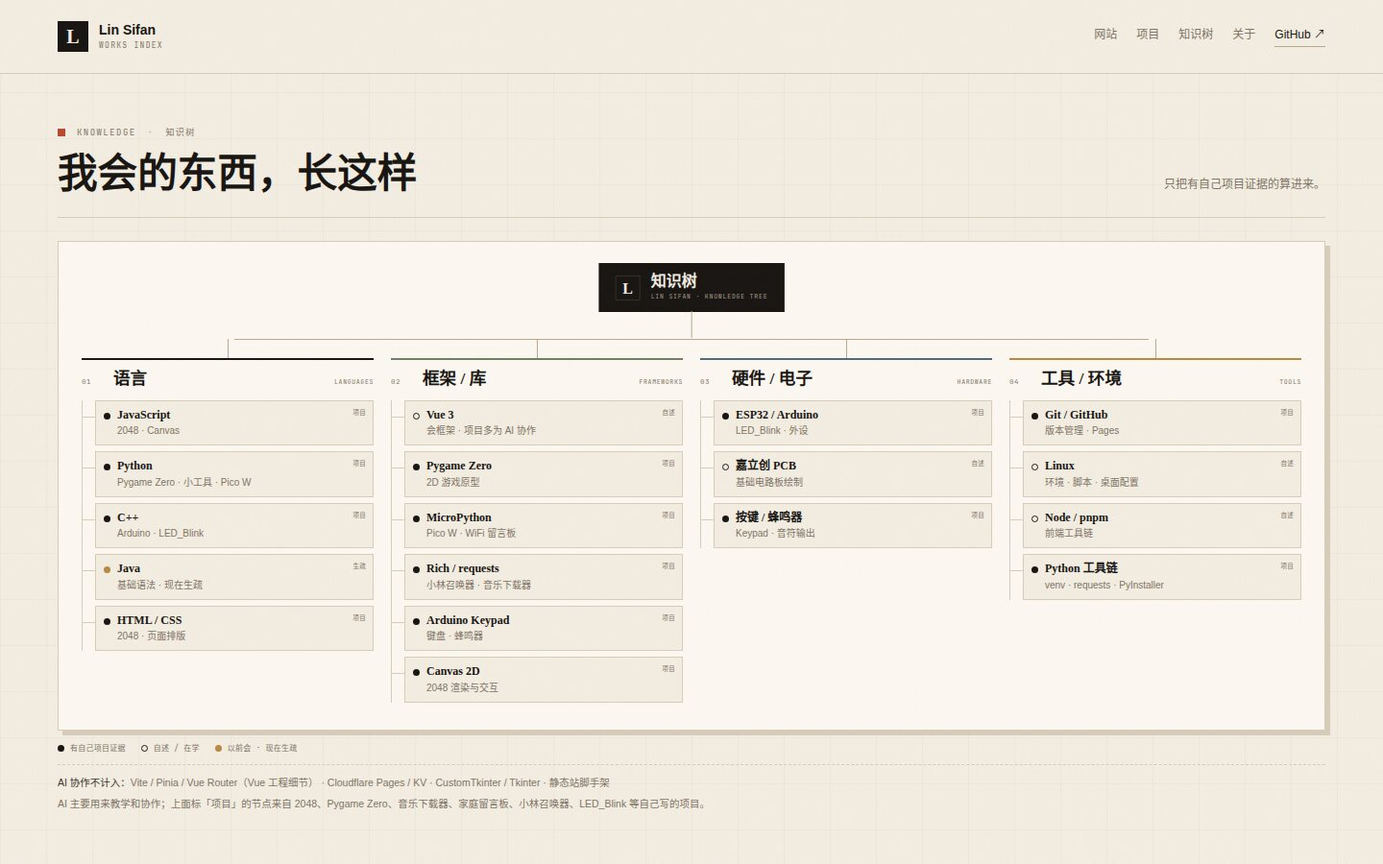
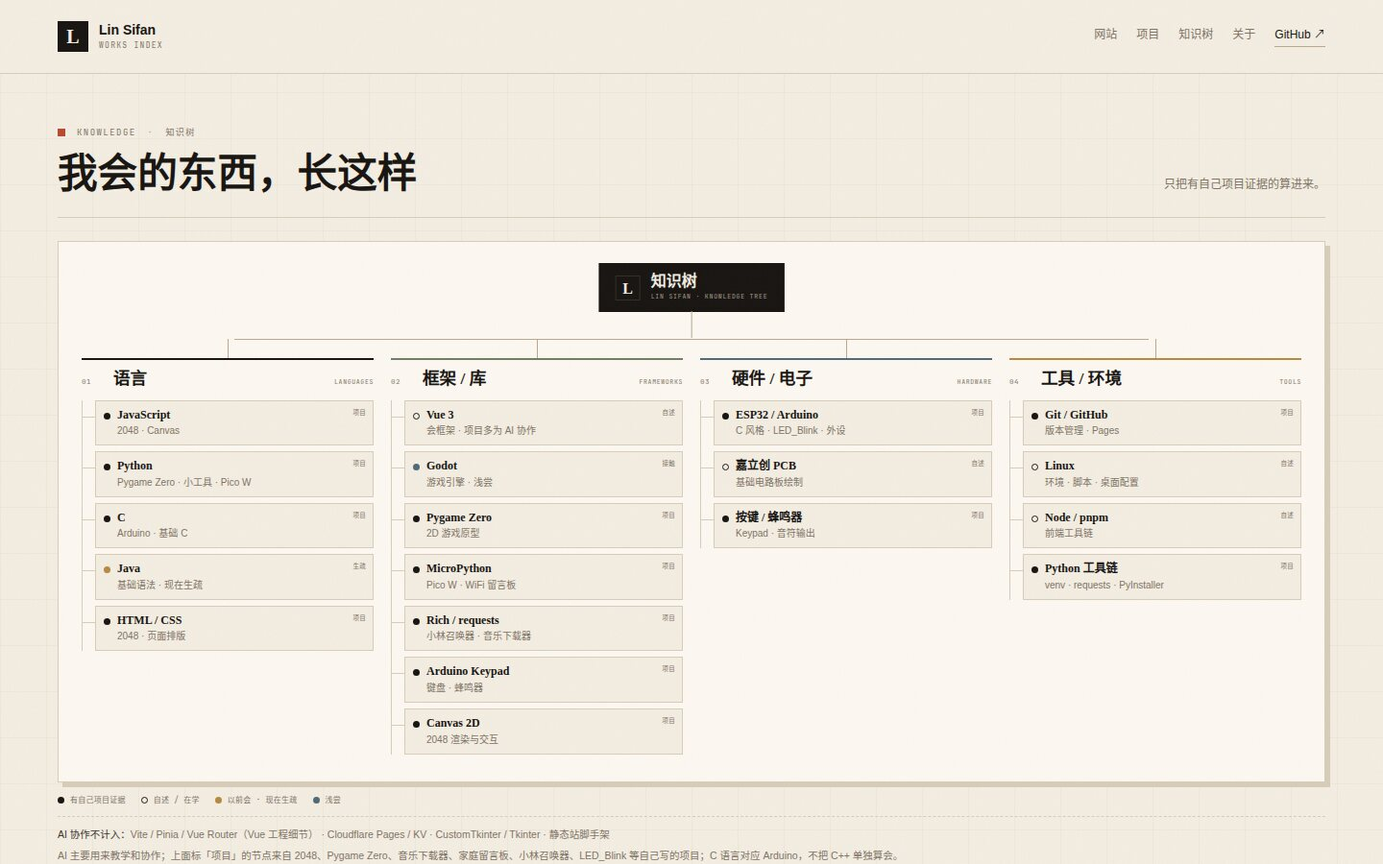
知识树修正与移动端单列
- C++ 改为 C，Arduino 归到 C 的基础，不再单独算会 C++
- 新增 Godot（浅尝）节点
- 手机端知识树改为单列，增加留白和字号，解决拥挤
- 更新知识树预览图，资源版本更新到 20261122-9

diff --git a/js/data.js b/js/data.js
@@ -1,1 +1,1 @@
-window.WORKS_DATA = {"profile":{"login":"TuxLin123233","name":"Lin Sifan","avatar":"assets/avatar.jpg","url":"https://github.com/TuxLin123233","repos":8,"contributions":544,"since":"2025"},"calendar":{"start":"2025-11-23","end":"2026-11-22","total":544,"days":[{"d":"2025-11-23","c":0,"l":0},{"d":"2025-11-24","c":0,"l":0},{"d":"2025-11-25","c":0,"l":0},{"d":"2025-11-26","c":0,"l":0},{"d":"2025-11-27","c":0,"l":0},{"d":"2025-11-28","c":0,"l":0},{"d":"2025-11-29","c":0,"l":0},{"d":"2025-11-30","c":0,"l":0},{"d":"2025-12-01","c":0,"l":0},{"d":"2025-12-02","c":0,"l":0},{"d":"2025-12-03","c":0,"l":0},{"d":"2025-12-04","c":0,"l":0},{"d":"2025-12-05","c":0,"l":0},{"d":"2025-12-06","c":0,"l":0},{"d":"2025-12-07","c":0,"l":0},{"d":"2025-12-08","c":0,"l":0},{"d":"2025-12-09","c":0,"l":0},{"d":"2025-12-10","c":0,"l":0},{"d":"2025-12-11","c":0,"l":0},{"d":"2025-12-12","c":0,"l":0},{"d":"2025-12-13","c":0,"l":0},{"d":"2025-12-14","c":0,"l":0},{"d":"2025-12-15","c":0,"l":0},{"d":"2025-12-16","c":0,"l":0},{"d":"2025-12-17","c":0,"l":0},{"d":"2025-12-18","c":0,"l":0},{"d":"2025-12-19","c":0,"l":0},{"d":"2025-12-20","c":0,"l":0},{"d":"2025-12-21","c":0,"l":0},{"d":"2025-12-22","c":0,"l":0},{"d":"2025-12-23","c":0,"l":0},{"d":"2025-12-24","c":0,"l":0},{"d":"2025-12-25","c":0,"l":0},{"d":"2025-12-26","c":0,"l":0},{"d":"2025-12-27","c":0,"l":0},{"d":"2025-12-28","c":0,"l":0},{"d":"2025-12-29","c":0,"l":0},{"d":"2025-12-30","c":0,"l":0},{"d":"2025-12-31","c":0,"l":0},{"d":"2026-01-01","c":0,"l":0},{"d":"2026-01-02","c":0,"l":0},{"d":"2026-01-03","c":0,"l":0},{"d":"2026-01-04","c":0,"l":0},{"d":"2026-01-05","c":0,"l":0},{"d":"2026-01-06","c":0,"l":0},{"d":"2026-01-07","c":0,"l":0},{"d":"2026-01-08","c":0,"l":0},{"d":"2026-01-09","c":0,"l":0},{"d":"2026-01-10","c":0,"l":0},{"d":"2026-01-11","c":0,"l":0},{"d":"2026-01-12","c":0,"l":0},{"d":"2026-01-13","c":0,"l":0},{"d":"2026-01-14","c":0,"l":0},{"d":"2026-01-15","c":0,"l":0},{"d":"2026-01-16","c":0,"l":0},{"d":"2026-01-17","c":0,"l":0},{"d":"2026-01-18","c":0,"l":0},{"d":"2026-01-19","c":0,"l":0},{"d":"2026-01-20","c":0,"l":0},{"d":"2026-01-21","c":0,"l":0},{"d":"2026-01-22","c":0,"l":0},{"d":"2026-01-23","c":0,"l":0},{"d":"2026-01-24","c":0,"l":0},{"d":"2026-01-25","c":0,"l":0},{"d":"2026-01-26","c":0,"l":0},{"d":"2026-01-27","c":0,"l":0},{"d":"2026-01-28","c":0,"l":0},{"d":"2026-01-29","c":0,"l":0},{"d":"2026-01-30","c":0,"l":0},{"d":"2026-01-31","c":0,"l":0},{"d":"2026-02-01","c":0,"l":0},{"d":"2026-02-02","c":0,"l":0},{"d":"2026-02-03","c":0,"l":0},{"d":"2026-02-04","c":0,"l":0},{"d":"2026-02-05","c":0,"l":0},{"d":"2026-02-06","c":0,"l":0},{"d":"2026-02-07","c":0,"l":0},{"d":"2026-02-08","c":0,"l":0},{"d":"2026-02-09","c":0,"l":0},{"d":"2026-02-10","c":0,"l":0},{"d":"2026-02-11","c":0,"l":0},{"d":"2026-02-12","c":0,"l":0},{"d":"2026-02-13","c":0,"l":0},{"d":"2026-02-14","c":0,"l":0},{"d":"2026-02-15","c":0,"l":0},{"d":"2026-02-16","c":0,"l":0},{"d":"2026-02-17","c":0,"l":0},{"d":"2026-02-18","c":0,"l":0},{"d":"2026-02-19","c":0,"l":0},{"d":"2026-02-20","c":0,"l":0},{"d":"2026-02-21","c":0,"l":0},{"d":"2026-02-22","c":0,"l":0},{"d":"2026-02-23","c":0,"l":0},{"d":"2026-02-24","c":0,"l":0},{"d":"2026-02-25","c":0,"l":0},{"d":"2026-02-26","c":0,"l":0},{"d":"2026-02-27","c":0,"l":0},{"d":"2026-02-28","c":17,"l":2},{"d":"2026-03-01","c":0,"l":0},{"d":"2026-03-02","c":0,"l":0},{"d":"2026-03-03","c":6,"l":1},{"d":"2026-03-04","c":0,"l":0},{"d":"2026-03-05","c":0,"l":0},{"d":"2026-03-06","c":0,"l":0},{"d":"2026-03-07","c":20,"l":2},{"d":"2026-03-08","c":4,"l":1},{"d":"2026-03-09","c":0,"l":0},{"d":"2026-03-10","c":0,"l":0},{"d":"2026-03-11","c":0,"l":0},{"d":"2026-03-12","c":0,"l":0},{"d":"2026-03-13","c":5,"l":1},{"d":"2026-03-14","c":4,"l":1},{"d":"2026-03-15","c":0,"l":0},{"d":"2026-03-16","c":0,"l":0},{"d":"2026-03-17","c":0,"l":0},{"d":"2026-03-18","c":0,"l":0},{"d":"2026-03-19","c":0,"l":0},{"d":"2026-03-20","c":4,"l":1},{"d":"2026-03-21","c":10,"l":1},{"d":"2026-03-22","c":0,"l":0},{"d":"2026-03-23","c":0,"l":0},{"d":"2026-03-24","c":0,"l":0},{"d":"2026-03-25","c":0,"l":0},{"d":"2026-03-26","c":0,"l":0},{"d":"2026-03-27","c":2,"l":1},{"d":"2026-03-28","c":13,"l":2},{"d":"2026-03-29","c":5,"l":1},{"d":"2026-03-30","c":0,"l":0},{"d":"2026-03-31","c":0,"l":0},{"d":"2026-04-01","c":0,"l":0},{"d":"2026-04-02","c":0,"l":0},{"d":"2026-04-03","c":0,"l":0},{"d":"2026-04-04","c":0,"l":0},{"d":"2026-04-05","c":0,"l":0},{"d":"2026-04-06","c":0,"l":0},{"d":"2026-04-07","c":0,"l":0},{"d":"2026-04-08","c":0,"l":0},{"d":"2026-04-09","c":0,"l":0},{"d":"2026-04-10","c":0,"l":0},{"d":"2026-04-11","c":6,"l":1},{"d":"2026-04-12","c":0,"l":0},{"d":"2026-04-13","c":0,"l":0},{"d":"2026-04-14","c":0,"l":0},{"d":"2026-04-15","c":0,"l":0},{"d":"2026-04-16","c":0,"l":0},{"d":"2026-04-17","c":1,"l":1},{"d":"2026-04-18","c":0,"l":0},{"d":"2026-04-19","c":0,"l":0},{"d":"2026-04-20","c":0,"l":0},{"d":"2026-04-21","c":0,"l":0},{"d":"2026-04-22","c":0,"l":0},{"d":"2026-04-23","c":0,"l":0},{"d":"2026-04-24","c":0,"l":0},{"d":"2026-04-25","c":0,"l":0},{"d":"2026-04-26","c":0,"l":0},{"d":"2026-04-27","c":0,"l":0},{"d":"2026-04-28","c":0,"l":0},{"d":"2026-04-29","c":0,"l":0},{"d":"2026-04-30","c":0,"l":0},{"d":"2026-05-01","c":0,"l":0},{"d":"2026-05-02","c":0,"l":0},{"d":"2026-05-03","c":0,"l":0},{"d":"2026-05-04","c":0,"l":0},{"d":"2026-05-05","c":0,"l":0},{"d":"2026-05-06","c":0,"l":0},{"d":"2026-05-07","c":0,"l":0},{"d":"2026-05-08","c":0,"l":0},{"d":"2026-05-09","c":0,"l":0},{"d":"2026-05-10","c":0,"l":0},{"d":"2026-05-11","c":0,"l":0},{"d":"2026-05-12","c":0,"l":0},{"d":"2026-05-13","c":0,"l":0},{"d":"2026-05-14","c":0,"l":0},{"d":"2026-05-15","c":0,"l":0},{"d":"2026-05-16","c":0,"l":0},{"d":"2026-05-17","c":0,"l":0},{"d":"2026-05-18","c":0,"l":0},{"d":"2026-05-19","c":0,"l":0},{"d":"2026-05-20","c":0,"l":0},{"d":"2026-05-21","c":0,"l":0},{"d":"2026-05-22","c":0,"l":0},{"d":"2026-05-23","c":0,"l":0},{"d":"2026-05-24","c":0,"l":0},{"d":"2026-05-25","c":0,"l":0},{"d":"2026-05-26","c":0,"l":0},{"d":"2026-05-27","c":0,"l":0},{"d":"2026-05-28","c":0,"l":0},{"d":"2026-05-29","c":0,"l":0},{"d":"2026-05-30","c":0,"l":0},{"d":"2026-05-31","c":0,"l":0},{"d":"2026-06-01","c":0,"l":0},{"d":"2026-06-02","c":0,"l":0},{"d":"2026-06-03","c":0,"l":0},{"d":"2026-06-04","c":0,"l":0},{"d":"2026-06-05","c":0,"l":0},{"d":"2026-06-06","c":0,"l":0},{"d":"2026-06-07","c":0,"l":0},{"d":"2026-06-08","c":0,"l":0},{"d":"2026-06-09","c":0,"l":0},{"d":"2026-06-10","c":0,"l":0},{"d":"2026-06-11","c":0,"l":0},{"d":"2026-06-12","c":0,"l":0},{"d":"2026-06-13","c":0,"l":0},{"d":"2026-06-14","c":1,"l":1},{"d":"2026-06-15","c":0,"l":0},{"d":"2026-06-16","c":0,"l":0},{"d":"2026-06-17","c":0,"l":0},{"d":"2026-06-18","c":2,"l":1},{"d":"2026-06-19","c":0,"l":0},{"d":"2026-06-20","c":0,"l":0},{"d":"2026-06-21","c":0,"l":0},{"d":"2026-06-22","c":0,"l":0},{"d":"2026-06-23","c":0,"l":0},{"d":"2026-06-24","c":0,"l":0},{"d":"2026-06-25","c":0,"l":0},{"d":"2026-06-26","c":0,"l":0},{"d":"2026-06-27","c":0,"l":0},{"d":"2026-06-28","c":0,"l":0},{"d":"2026-06-29","c":0,"l":0},{"d":"2026-06-30","c":0,"l":0},{"d":"2026-07-01","c":0,"l":0},{"d":"2026-07-02","c":0,"l":0},{"d":"2026-07-03","c":0,"l":0},{"d":"2026-07-04","c":0,"l":0},{"d":"2026-07-05","c":0,"l":0},{"d":"2026-07-06","c":0,"l":0},{"d":"2026-07-07","c":0,"l":0},{"d":"2026-07-08","c":0,"l":0},{"d":"2026-07-09","c":0,"l":0},{"d":"2026-07-10","c":0,"l":0},{"d":"2026-07-11","c":0,"l":0},{"d":"2026-07-12","c":0,"l":0},{"d":"2026-07-13","c":0,"l":0},{"d":"2026-07-14","c":0,"l":0},{"d":"2026-07-15","c":0,"l":0},{"d":"2026-07-16","c":0,"l":0},{"d":"2026-07-17","c":0,"l":0},{"d":"2026-07-18","c":0,"l":0},{"d":"2026-07-19","c":0,"l":0},{"d":"2026-07-20","c":0,"l":0},{"d":"2026-07-21","c":0,"l":0},{"d":"2026-07-22","c":0,"l":0},{"d":"2026-07-23","c":0,"l":0},{"d":"2026-07-24","c":0,"l":0},{"d":"2026-07-25","c":0,"l":0},{"d":"2026-07-26","c":0,"l":0},{"d":"2026-07-27","c":0,"l":0},{"d":"2026-07-28","c":0,"l":0},{"d":"2026-07-29","c":0,"l":0},{"d":"2026-07-30","c":0,"l":0},{"d":"2026-07-31","c":0,"l":0},{"d":"2026-08-01","c":0,"l":0},{"d":"2026-08-02","c":0,"l":0},{"d":"2026-08-03","c":0,"l":0},{"d":"2026-08-04","c":0,"l":0},{"d":"2026-08-05","c":0,"l":0},{"d":"2026-08-06","c":0,"l":0},{"d":"2026-08-07","c":0,"l":0},{"d":"2026-08-08","c":0,"l":0},{"d":"2026-08-09","c":0,"l":0},{"d":"2026-08-10","c":0,"l":0},{"d":"2026-08-11","c":0,"l":0},{"d":"2026-08-12","c":0,"l":0},{"d":"2026-08-13","c":0,"l":0},{"d":"2026-08-14","c":0,"l":0},{"d":"2026-08-15","c":0,"l":0},{"d":"2026-08-16","c":0,"l":0},{"d":"2026-08-17","c":0,"l":0},{"d":"2026-08-18","c":0,"l":0},{"d":"2026-08-19","c":0,"l":0},{"d":"2026-08-20","c":0,"l":0},{"d":"2026-08-21","c":0,"l":0},{"d":"2026-08-22","c":0,"l":0},{"d":"2026-08-23","c":0,"l":0},{"d":"2026-08-24","c":4,"l":1},{"d":"2026-08-25","c":0,"l":0},{"d":"2026-08-26","c":0,"l":0},{"d":"2026-08-27","c":2,"l":1},{"d":"2026-08-28","c":4,"l":1},{"d":"2026-08-29","c":1,"l":1},{"d":"2026-08-30","c":0,"l":0},{"d":"2026-08-31","c":0,"l":0},{"d":"2026-09-01","c":0,"l":0},{"d":"2026-09-02","c":0,"l":0},{"d":"2026-09-03","c":0,"l":0},{"d":"2026-09-04","c":0,"l":0},{"d":"2026-09-05","c":0,"l":0},{"d":"2026-09-06","c":0,"l":0},{"d":"2026-09-07","c":0,"l":0},{"d":"2026-09-08","c":0,"l":0},{"d":"2026-09-09","c":0,"l":0},{"d":"2026-09-10","c":0,"l":0},{"d":"2026-09-11","c":0,"l":0},{"d":"2026-09-12","c":5,"l":1},{"d":"2026-09-13","c":0,"l":0},{"d":"2026-09-14","c":0,"l":0},{"d":"2026-09-15","c":0,"l":0},{"d":"2026-09-16","c":0,"l":0},{"d":"2026-09-17","c":0,"l":0},{"d":"2026-09-18","c":3,"l":1},{"d":"2026-09-19","c":3,"l":1},{"d":"2026-09-20","c":0,"l":0},{"d":"2026-09-21","c":0,"l":0},{"d":"2026-09-22","c":0,"l":0},{"d":"2026-09-23","c":0,"l":0},{"d":"2026-09-24","c":0,"l":0},{"d":"2026-09-25","c":37,"l":4},{"d":"2026-09-26","c":29,"l":3},{"d":"2026-09-27","c":0,"l":0},{"d":"2026-09-28","c":0,"l":0},{"d":"2026-09-29","c":0,"l":0},{"d":"2026-09-30","c":5,"l":1},{"d":"2026-10-01","c":69,"l":4},{"d":"2026-10-02","c":105,"l":4},{"d":"2026-10-03","c":40,"l":4},{"d":"2026-10-04","c":26,"l":3},{"d":"2026-10-05","c":0,"l":0},{"d":"2026-10-06","c":0,"l":0},{"d":"2026-10-07","c":0,"l":0},{"d":"2026-10-08","c":0,"l":0},{"d":"2026-10-09","c":0,"l":0},{"d":"2026-10-10","c":8,"l":1},{"d":"2026-10-11","c":3,"l":1},{"d":"2026-10-12","c":0,"l":0},{"d":"2026-10-13","c":0,"l":0},{"d":"2026-10-14","c":0,"l":0},{"d":"2026-10-15","c":0,"l":0},{"d":"2026-10-16","c":0,"l":0},{"d":"2026-10-17","c":18,"l":2},{"d":"2026-10-18","c":25,"l":3},{"d":"2026-10-19","c":0,"l":0},{"d":"2026-10-20","c":0,"l":0},{"d":"2026-10-21","c":0,"l":0},{"d":"2026-10-22","c":0,"l":0},{"d":"2026-10-23","c":0,"l":0},{"d":"2026-10-24","c":0,"l":0},{"d":"2026-10-25","c":0,"l":0},{"d":"2026-10-26","c":0,"l":0},{"d":"2026-10-27","c":0,"l":0},{"d":"2026-10-28","c":0,"l":0},{"d":"2026-10-29","c":0,"l":0},{"d":"2026-10-30","c":0,"l":0},{"d":"2026-10-31","c":0,"l":0},{"d":"2026-11-01","c":0,"l":0},{"d":"2026-11-02","c":0,"l":0},{"d":"2026-11-03","c":0,"l":0},{"d":"2026-11-04","c":0,"l":0},{"d":"2026-11-05","c":0,"l":0},{"d":"2026-11-06","c":0,"l":0},{"d":"2026-11-07","c":0,"l":0},{"d":"2026-11-08","c":0,"l":0},{"d":"2026-11-09","c":0,"l":0},{"d":"2026-11-10","c":0,"l":0},{"d":"2026-11-11","c":0,"l":0},{"d":"2026-11-12","c":0,"l":0},{"d":"2026-11-13","c":0,"l":0},{"d":"2026-11-14","c":2,"l":1},{"d":"2026-11-15","c":15,"l":2},{"d":"2026-11-16","c":0,"l":0},{"d":"2026-11-17","c":0,"l":0},{"d":"2026-11-18","c":0,"l":0},{"d":"2026-11-19","c":0,"l":0},{"d":"2026-11-20","c":0,"l":0},{"d":"2026-11-21","c":16,"l":2},{"d":"2026-11-22","c":24,"l":3}]},"sites":[{"no":"01","name":"私人唱片档案","en":"PRIVATE PLAYLIST","tag":"音乐","desc":"431 首歌，按风格收好；黑胶杂志式的桌面与曲目表。","url":"https://tuxlin123233.github.io/my-play-list/","accent":"ink"},{"no":"02","name":"零食柜","en":"SNACK SHELF","tag":"食物","desc":"11 盒有包装的零食，拟物木架和会随滚动仰俯的纸箱。","url":"https://tuxlin123233.github.io/my-food-list/","accent":"coral"},{"no":"03","name":"一事一练","en":"ONE THING A DAY","tag":"工具","desc":"AI 长期陪练与存档：60 个练点、本周练习卡、换 AI 续接。","url":"https://tuxlin123233.github.io/json-prompt-form/","accent":"sage"},{"no":"04","name":"像素小镇","en":"PIXEL TOWN","tag":"像素","desc":"云端像素画板：画画、存档、串门，还能投到灯板。","url":"https://light-field.pages.dev","accent":"blue"},{"no":"05","name":"像素画网站","en":"PIXEL SPACE","tag":"图像","desc":"我的像素画作品与创作空间。","url":"https://pixel-space-9bn.pages.dev/","accent":"blue"},{"no":"06","name":"重力 2048","en":"GRAVITY 2048","tag":"游戏","desc":"一个受重力影响的 2048 小游戏。","url":"https://tuxlin123233.github.io/","accent":"mustard"}],"projects":[{"name":"fly-car","desc":"果蝇大脑控制的 ESP32 小车","lang":"C++ / ESP32","url":"https://github.com/TuxLin123233/fly-car"},{"name":"Minecraft-Save-Manager","desc":"Minecraft 存档批量导入工具","lang":"Python","url":"https://github.com/TuxLin123233/Minecraft-Save-Manager"},{"name":"pixel-town","desc":"像素小镇的源码、文档与硬件","lang":"Vue 3 / Cloudflare","url":"https://github.com/TuxLin123233/pixel-town"},{"name":"PixelSpace","desc":"像素画网站源码","lang":"Vue / Vite","url":"https://github.com/TuxLin123233/PixelSpace"},{"name":"my-play-list","desc":"私人唱片档案源码","lang":"HTML / CSS / JS","url":"https://github.com/TuxLin123233/my-play-list"},{"name":"my-food-list","desc":"零食柜源码","lang":"HTML / CSS / JS","url":"https://github.com/TuxLin123233/my-food-list"}],"knowledge":{"root":"Lin Sifan","branches":[{"name":"语言","en":"LANGUAGES","color":"ink","leaves":[{"name":"JavaScript","note":"2048 · Canvas","status":"project"},{"name":"Python","note":"Pygame Zero · 小工具 · Pico W","status":"project"},{"name":"C++","note":"Arduino · LED_Blink","status":"project"},{"name":"Java","note":"基础语法 · 现在生疏","status":"rusty"},{"name":"HTML / CSS","note":"2048 · 页面排版","status":"project"}]},{"name":"框架 / 库","en":"FRAMEWORKS","color":"sage","leaves":[{"name":"Vue 3","note":"会框架 · 项目多为 AI 协作","status":"stated"},{"name":"Pygame Zero","note":"2D 游戏原型","status":"project"},{"name":"MicroPython","note":"Pico W · WiFi 留言板","status":"project"},{"name":"Rich / requests","note":"小林召唤器 · 音乐下载器","status":"project"},{"name":"Arduino Keypad","note":"键盘 · 蜂鸣器","status":"project"},{"name":"Canvas 2D","note":"2048 渲染与交互","status":"project"}]},{"name":"硬件 / 电子","en":"HARDWARE","color":"blue","leaves":[{"name":"ESP32 / Arduino","note":"LED_Blink · 外设","status":"project"},{"name":"嘉立创 PCB","note":"基础电路板绘制","status":"stated"},{"name":"按键 / 蜂鸣器","note":"Keypad · 音符输出","status":"project"}]},{"name":"工具 / 环境","en":"TOOLS","color":"mustard","leaves":[{"name":"Git / GitHub","note":"版本管理 · Pages","status":"project"},{"name":"Linux","note":"环境 · 脚本 · 桌面配置","status":"stated"},{"name":"Node / pnpm","note":"前端工具链","status":"stated"},{"name":"Python 工具链","note":"venv · requests · PyInstaller","status":"project"}]}],"excluded":["Vite / Pinia / Vue Router（Vue 工程细节）","Cloudflare Pages / KV","CustomTkinter / Tkinter","静态站脚手架"]},"updated":"2026-11-22"};
+window.WORKS_DATA = {"profile":{"login":"TuxLin123233","name":"Lin Sifan","avatar":"assets/avatar.jpg","url":"https://github.com/TuxLin123233","repos":8,"contributions":544,"since":"2025"},"calendar":{"start":"2025-11-23","end":"2026-11-22","total":544,"days":[{"d":"2025-11-23","c":0,"l":0},{"d":"2025-11-24","c":0,"l":0},{"d":"2025-11-25","c":0,"l":0},{"d":"2025-11-26","c":0,"l":0},{"d":"2025-11-27","c":0,"l":0},{"d":"2025-11-28","c":0,"l":0},{"d":"2025-11-29","c":0,"l":0},{"d":"2025-11-30","c":0,"l":0},{"d":"2025-12-01","c":0,"l":0},{"d":"2025-12-02","c":0,"l":0},{"d":"2025-12-03","c":0,"l":0},{"d":"2025-12-04","c":0,"l":0},{"d":"2025-12-05","c":0,"l":0},{"d":"2025-12-06","c":0,"l":0},{"d":"2025-12-07","c":0,"l":0},{"d":"2025-12-08","c":0,"l":0},{"d":"2025-12-09","c":0,"l":0},{"d":"2025-12-10","c":0,"l":0},{"d":"2025-12-11","c":0,"l":0},{"d":"2025-12-12","c":0,"l":0},{"d":"2025-12-13","c":0,"l":0},{"d":"2025-12-14","c":0,"l":0},{"d":"2025-12-15","c":0,"l":0},{"d":"2025-12-16","c":0,"l":0},{"d":"2025-12-17","c":0,"l":0},{"d":"2025-12-18","c":0,"l":0},{"d":"2025-12-19","c":0,"l":0},{"d":"2025-12-20","c":0,"l":0},{"d":"2025-12-21","c":0,"l":0},{"d":"2025-12-22","c":0,"l":0},{"d":"2025-12-23","c":0,"l":0},{"d":"2025-12-24","c":0,"l":0},{"d":"2025-12-25","c":0,"l":0},{"d":"2025-12-26","c":0,"l":0},{"d":"2025-12-27","c":0,"l":0},{"d":"2025-12-28","c":0,"l":0},{"d":"2025-12-29","c":0,"l":0},{"d":"2025-12-30","c":0,"l":0},{"d":"2025-12-31","c":0,"l":0},{"d":"2026-01-01","c":0,"l":0},{"d":"2026-01-02","c":0,"l":0},{"d":"2026-01-03","c":0,"l":0},{"d":"2026-01-04","c":0,"l":0},{"d":"2026-01-05","c":0,"l":0},{"d":"2026-01-06","c":0,"l":0},{"d":"2026-01-07","c":0,"l":0},{"d":"2026-01-08","c":0,"l":0},{"d":"2026-01-09","c":0,"l":0},{"d":"2026-01-10","c":0,"l":0},{"d":"2026-01-11","c":0,"l":0},{"d":"2026-01-12","c":0,"l":0},{"d":"2026-01-13","c":0,"l":0},{"d":"2026-01-14","c":0,"l":0},{"d":"2026-01-15","c":0,"l":0},{"d":"2026-01-16","c":0,"l":0},{"d":"2026-01-17","c":0,"l":0},{"d":"2026-01-18","c":0,"l":0},{"d":"2026-01-19","c":0,"l":0},{"d":"2026-01-20","c":0,"l":0},{"d":"2026-01-21","c":0,"l":0},{"d":"2026-01-22","c":0,"l":0},{"d":"2026-01-23","c":0,"l":0},{"d":"2026-01-24","c":0,"l":0},{"d":"2026-01-25","c":0,"l":0},{"d":"2026-01-26","c":0,"l":0},{"d":"2026-01-27","c":0,"l":0},{"d":"2026-01-28","c":0,"l":0},{"d":"2026-01-29","c":0,"l":0},{"d":"2026-01-30","c":0,"l":0},{"d":"2026-01-31","c":0,"l":0},{"d":"2026-02-01","c":0,"l":0},{"d":"2026-02-02","c":0,"l":0},{"d":"2026-02-03","c":0,"l":0},{"d":"2026-02-04","c":0,"l":0},{"d":"2026-02-05","c":0,"l":0},{"d":"2026-02-06","c":0,"l":0},{"d":"2026-02-07","c":0,"l":0},{"d":"2026-02-08","c":0,"l":0},{"d":"2026-02-09","c":0,"l":0},{"d":"2026-02-10","c":0,"l":0},{"d":"2026-02-11","c":0,"l":0},{"d":"2026-02-12","c":0,"l":0},{"d":"2026-02-13","c":0,"l":0},{"d":"2026-02-14","c":0,"l":0},{"d":"2026-02-15","c":0,"l":0},{"d":"2026-02-16","c":0,"l":0},{"d":"2026-02-17","c":0,"l":0},{"d":"2026-02-18","c":0,"l":0},{"d":"2026-02-19","c":0,"l":0},{"d":"2026-02-20","c":0,"l":0},{"d":"2026-02-21","c":0,"l":0},{"d":"2026-02-22","c":0,"l":0},{"d":"2026-02-23","c":0,"l":0},{"d":"2026-02-24","c":0,"l":0},{"d":"2026-02-25","c":0,"l":0},{"d":"2026-02-26","c":0,"l":0},{"d":"2026-02-27","c":0,"l":0},{"d":"2026-02-28","c":17,"l":2},{"d":"2026-03-01","c":0,"l":0},{"d":"2026-03-02","c":0,"l":0},{"d":"2026-03-03","c":6,"l":1},{"d":"2026-03-04","c":0,"l":0},{"d":"2026-03-05","c":0,"l":0},{"d":"2026-03-06","c":0,"l":0},{"d":"2026-03-07","c":20,"l":2},{"d":"2026-03-08","c":4,"l":1},{"d":"2026-03-09","c":0,"l":0},{"d":"2026-03-10","c":0,"l":0},{"d":"2026-03-11","c":0,"l":0},{"d":"2026-03-12","c":0,"l":0},{"d":"2026-03-13","c":5,"l":1},{"d":"2026-03-14","c":4,"l":1},{"d":"2026-03-15","c":0,"l":0},{"d":"2026-03-16","c":0,"l":0},{"d":"2026-03-17","c":0,"l":0},{"d":"2026-03-18","c":0,"l":0},{"d":"2026-03-19","c":0,"l":0},{"d":"2026-03-20","c":4,"l":1},{"d":"2026-03-21","c":10,"l":1},{"d":"2026-03-22","c":0,"l":0},{"d":"2026-03-23","c":0,"l":0},{"d":"2026-03-24","c":0,"l":0},{"d":"2026-03-25","c":0,"l":0},{"d":"2026-03-26","c":0,"l":0},{"d":"2026-03-27","c":2,"l":1},{"d":"2026-03-28","c":13,"l":2},{"d":"2026-03-29","c":5,"l":1},{"d":"2026-03-30","c":0,"l":0},{"d":"2026-03-31","c":0,"l":0},{"d":"2026-04-01","c":0,"l":0},{"d":"2026-04-02","c":0,"l":0},{"d":"2026-04-03","c":0,"l":0},{"d":"2026-04-04","c":0,"l":0},{"d":"2026-04-05","c":0,"l":0},{"d":"2026-04-06","c":0,"l":0},{"d":"2026-04-07","c":0,"l":0},{"d":"2026-04-08","c":0,"l":0},{"d":"2026-04-09","c":0,"l":0},{"d":"2026-04-10","c":0,"l":0},{"d":"2026-04-11","c":6,"l":1},{"d":"2026-04-12","c":0,"l":0},{"d":"2026-04-13","c":0,"l":0},{"d":"2026-04-14","c":0,"l":0},{"d":"2026-04-15","c":0,"l":0},{"d":"2026-04-16","c":0,"l":0},{"d":"2026-04-17","c":1,"l":1},{"d":"2026-04-18","c":0,"l":0},{"d":"2026-04-19","c":0,"l":0},{"d":"2026-04-20","c":0,"l":0},{"d":"2026-04-21","c":0,"l":0},{"d":"2026-04-22","c":0,"l":0},{"d":"2026-04-23","c":0,"l":0},{"d":"2026-04-24","c":0,"l":0},{"d":"2026-04-25","c":0,"l":0},{"d":"2026-04-26","c":0,"l":0},{"d":"2026-04-27","c":0,"l":0},{"d":"2026-04-28","c":0,"l":0},{"d":"2026-04-29","c":0,"l":0},{"d":"2026-04-30","c":0,"l":0},{"d":"2026-05-01","c":0,"l":0},{"d":"2026-05-02","c":0,"l":0},{"d":"2026-05-03","c":0,"l":0},{"d":"2026-05-04","c":0,"l":0},{"d":"2026-05-05","c":0,"l":0},{"d":"2026-05-06","c":0,"l":0},{"d":"2026-05-07","c":0,"l":0},{"d":"2026-05-08","c":0,"l":0},{"d":"2026-05-09","c":0,"l":0},{"d":"2026-05-10","c":0,"l":0},{"d":"2026-05-11","c":0,"l":0},{"d":"2026-05-12","c":0,"l":0},{"d":"2026-05-13","c":0,"l":0},{"d":"2026-05-14","c":0,"l":0},{"d":"2026-05-15","c":0,"l":0},{"d":"2026-05-16","c":0,"l":0},{"d":"2026-05-17","c":0,"l":0},{"d":"2026-05-18","c":0,"l":0},{"d":"2026-05-19","c":0,"l":0},{"d":"2026-05-20","c":0,"l":0},{"d":"2026-05-21","c":0,"l":0},{"d":"2026-05-22","c":0,"l":0},{"d":"2026-05-23","c":0,"l":0},{"d":"2026-05-24","c":0,"l":0},{"d":"2026-05-25","c":0,"l":0},{"d":"2026-05-26","c":0,"l":0},{"d":"2026-05-27","c":0,"l":0},{"d":"2026-05-28","c":0,"l":0},{"d":"2026-05-29","c":0,"l":0},{"d":"2026-05-30","c":0,"l":0},{"d":"2026-05-31","c":0,"l":0},{"d":"2026-06-01","c":0,"l":0},{"d":"2026-06-02","c":0,"l":0},{"d":"2026-06-03","c":0,"l":0},{"d":"2026-06-04","c":0,"l":0},{"d":"2026-06-05","c":0,"l":0},{"d":"2026-06-06","c":0,"l":0},{"d":"2026-06-07","c":0,"l":0},{"d":"2026-06-08","c":0,"l":0},{"d":"2026-06-09","c":0,"l":0},{"d":"2026-06-10","c":0,"l":0},{"d":"2026-06-11","c":0,"l":0},{"d":"2026-06-12","c":0,"l":0},{"d":"2026-06-13","c":0,"l":0},{"d":"2026-06-14","c":1,"l":1},{"d":"2026-06-15","c":0,"l":0},{"d":"2026-06-16","c":0,"l":0},{"d":"2026-06-17","c":0,"l":0},{"d":"2026-06-18","c":2,"l":1},{"d":"2026-06-19","c":0,"l":0},{"d":"2026-06-20","c":0,"l":0},{"d":"2026-06-21","c":0,"l":0},{"d":"2026-06-22","c":0,"l":0},{"d":"2026-06-23","c":0,"l":0},{"d":"2026-06-24","c":0,"l":0},{"d":"2026-06-25","c":0,"l":0},{"d":"2026-06-26","c":0,"l":0},{"d":"2026-06-27","c":0,"l":0},{"d":"2026-06-28","c":0,"l":0},{"d":"2026-06-29","c":0,"l":0},{"d":"2026-06-30","c":0,"l":0},{"d":"2026-07-01","c":0,"l":0},{"d":"2026-07-02","c":0,"l":0},{"d":"2026-07-03","c":0,"l":0},{"d":"2026-07-04","c":0,"l":0},{"d":"2026-07-05","c":0,"l":0},{"d":"2026-07-06","c":0,"l":0},{"d":"2026-07-07","c":0,"l":0},{"d":"2026-07-08","c":0,"l":0},{"d":"2026-07-09","c":0,"l":0},{"d":"2026-07-10","c":0,"l":0},{"d":"2026-07-11","c":0,"l":0},{"d":"2026-07-12","c":0,"l":0},{"d":"2026-07-13","c":0,"l":0},{"d":"2026-07-14","c":0,"l":0},{"d":"2026-07-15","c":0,"l":0},{"d":"2026-07-16","c":0,"l":0},{"d":"2026-07-17","c":0,"l":0},{"d":"2026-07-18","c":0,"l":0},{"d":"2026-07-19","c":0,"l":0},{"d":"2026-07-20","c":0,"l":0},{"d":"2026-07-21","c":0,"l":0},{"d":"2026-07-22","c":0,"l":0},{"d":"2026-07-23","c":0,"l":0},{"d":"2026-07-24","c":0,"l":0},{"d":"2026-07-25","c":0,"l":0},{"d":"2026-07-26","c":0,"l":0},{"d":"2026-07-27","c":0,"l":0},{"d":"2026-07-28","c":0,"l":0},{"d":"2026-07-29","c":0,"l":0},{"d":"2026-07-30","c":0,"l":0},{"d":"2026-07-31","c":0,"l":0},{"d":"2026-08-01","c":0,"l":0},{"d":"2026-08-02","c":0,"l":0},{"d":"2026-08-03","c":0,"l":0},{"d":"2026-08-04","c":0,"l":0},{"d":"2026-08-05","c":0,"l":0},{"d":"2026-08-06","c":0,"l":0},{"d":"2026-08-07","c":0,"l":0},{"d":"2026-08-08","c":0,"l":0},{"d":"2026-08-09","c":0,"l":0},{"d":"2026-08-10","c":0,"l":0},{"d":"2026-08-11","c":0,"l":0},{"d":"2026-08-12","c":0,"l":0},{"d":"2026-08-13","c":0,"l":0},{"d":"2026-08-14","c":0,"l":0},{"d":"2026-08-15","c":0,"l":0},{"d":"2026-08-16","c":0,"l":0},{"d":"2026-08-17","c":0,"l":0},{"d":"2026-08-18","c":0,"l":0},{"d":"2026-08-19","c":0,"l":0},{"d":"2026-08-20","c":0,"l":0},{"d":"2026-08-21","c":0,"l":0},{"d":"2026-08-22","c":0,"l":0},{"d":"2026-08-23","c":0,"l":0},{"d":"2026-08-24","c":4,"l":1},{"d":"2026-08-25","c":0,"l":0},{"d":"2026-08-26","c":0,"l":0},{"d":"2026-08-27","c":2,"l":1},{"d":"2026-08-28","c":4,"l":1},{"d":"2026-08-29","c":1,"l":1},{"d":"2026-08-30","c":0,"l":0},{"d":"2026-08-31","c":0,"l":0},{"d":"2026-09-01","c":0,"l":0},{"d":"2026-09-02","c":0,"l":0},{"d":"2026-09-03","c":0,"l":0},{"d":"2026-09-04","c":0,"l":0},{"d":"2026-09-05","c":0,"l":0},{"d":"2026-09-06","c":0,"l":0},{"d":"2026-09-07","c":0,"l":0},{"d":"2026-09-08","c":0,"l":0},{"d":"2026-09-09","c":0,"l":0},{"d":"2026-09-10","c":0,"l":0},{"d":"2026-09-11","c":0,"l":0},{"d":"2026-09-12","c":5,"l":1},{"d":"2026-09-13","c":0,"l":0},{"d":"2026-09-14","c":0,"l":0},{"d":"2026-09-15","c":0,"l":0},{"d":"2026-09-16","c":0,"l":0},{"d":"2026-09-17","c":0,"l":0},{"d":"2026-09-18","c":3,"l":1},{"d":"2026-09-19","c":3,"l":1},{"d":"2026-09-20","c":0,"l":0},{"d":"2026-09-21","c":0,"l":0},{"d":"2026-09-22","c":0,"l":0},{"d":"2026-09-23","c":0,"l":0},{"d":"2026-09-24","c":0,"l":0},{"d":"2026-09-25","c":37,"l":4},{"d":"2026-09-26","c":29,"l":3},{"d":"2026-09-27","c":0,"l":0},{"d":"2026-09-28","c":0,"l":0},{"d":"2026-09-29","c":0,"l":0},{"d":"2026-09-30","c":5,"l":1},{"d":"2026-10-01","c":69,"l":4},{"d":"2026-10-02","c":105,"l":4},{"d":"2026-10-03","c":40,"l":4},{"d":"2026-10-04","c":26,"l":3},{"d":"2026-10-05","c":0,"l":0},{"d":"2026-10-06","c":0,"l":0},{"d":"2026-10-07","c":0,"l":0},{"d":"2026-10-08","c":0,"l":0},{"d":"2026-10-09","c":0,"l":0},{"d":"2026-10-10","c":8,"l":1},{"d":"2026-10-11","c":3,"l":1},{"d":"2026-10-12","c":0,"l":0},{"d":"2026-10-13","c":0,"l":0},{"d":"2026-10-14","c":0,"l":0},{"d":"2026-10-15","c":0,"l":0},{"d":"2026-10-16","c":0,"l":0},{"d":"2026-10-17","c":18,"l":2},{"d":"2026-10-18","c":25,"l":3},{"d":"2026-10-19","c":0,"l":0},{"d":"2026-10-20","c":0,"l":0},{"d":"2026-10-21","c":0,"l":0},{"d":"2026-10-22","c":0,"l":0},{"d":"2026-10-23","c":0,"l":0},{"d":"2026-10-24","c":0,"l":0},{"d":"2026-10-25","c":0,"l":0},{"d":"2026-10-26","c":0,"l":0},{"d":"2026-10-27","c":0,"l":0},{"d":"2026-10-28","c":0,"l":0},{"d":"2026-10-29","c":0,"l":0},{"d":"2026-10-30","c":0,"l":0},{"d":"2026-10-31","c":0,"l":0},{"d":"2026-11-01","c":0,"l":0},{"d":"2026-11-02","c":0,"l":0},{"d":"2026-11-03","c":0,"l":0},{"d":"2026-11-04","c":0,"l":0},{"d":"2026-11-05","c":0,"l":0},{"d":"2026-11-06","c":0,"l":0},{"d":"2026-11-07","c":0,"l":0},{"d":"2026-11-08","c":0,"l":0},{"d":"2026-11-09","c":0,"l":0},{"d":"2026-11-10","c":0,"l":0},{"d":"2026-11-11","c":0,"l":0},{"d":"2026-11-12","c":0,"l":0},{"d":"2026-11-13","c":0,"l":0},{"d":"2026-11-14","c":2,"l":1},{"d":"2026-11-15","c":15,"l":2},{"d":"2026-11-16","c":0,"l":0},{"d":"2026-11-17","c":0,"l":0},{"d":"2026-11-18","c":0,"l":0},{"d":"2026-11-19","c":0,"l":0},{"d":"2026-11-20","c":0,"l":0},{"d":"2026-11-21","c":16,"l":2},{"d":"2026-11-22","c":24,"l":3}]},"sites":[{"no":"01","name":"私人唱片档案","en":"PRIVATE PLAYLIST","tag":"音乐","desc":"431 首歌，按风格收好；黑胶杂志式的桌面与曲目表。","url":"https://tuxlin123233.github.io/my-play-list/","accent":"ink"},{"no":"02","name":"零食柜","en":"SNACK SHELF","tag":"食物","desc":"11 盒有包装的零食，拟物木架和会随滚动仰俯的纸箱。","url":"https://tuxlin123233.github.io/my-food-list/","accent":"coral"},{"no":"03","name":"一事一练","en":"ONE THING A DAY","tag":"工具","desc":"AI 长期陪练与存档：60 个练点、本周练习卡、换 AI 续接。","url":"https://tuxlin123233.github.io/json-prompt-form/","accent":"sage"},{"no":"04","name":"像素小镇","en":"PIXEL TOWN","tag":"像素","desc":"云端像素画板：画画、存档、串门，还能投到灯板。","url":"https://light-field.pages.dev","accent":"blue"},{"no":"05","name":"像素画网站","en":"PIXEL SPACE","tag":"图像","desc":"我的像素画作品与创作空间。","url":"https://pixel-space-9bn.pages.dev/","accent":"blue"},{"no":"06","name":"重力 2048","en":"GRAVITY 2048","tag":"游戏","desc":"一个受重力影响的 2048 小游戏。","url":"https://tuxlin123233.github.io/","accent":"mustard"}],"projects":[{"name":"fly-car","desc":"果蝇大脑控制的 ESP32 小车","lang":"C++ / ESP32","url":"https://github.com/TuxLin123233/fly-car"},{"name":"Minecraft-Save-Manager","desc":"Minecraft 存档批量导入工具","lang":"Python","url":"https://github.com/TuxLin123233/Minecraft-Save-Manager"},{"name":"pixel-town","desc":"像素小镇的源码、文档与硬件","lang":"Vue 3 / Cloudflare","url":"https://github.com/TuxLin123233/pixel-town"},{"name":"PixelSpace","desc":"像素画网站源码","lang":"Vue / Vite","url":"https://github.com/TuxLin123233/PixelSpace"},{"name":"my-play-list","desc":"私人唱片档案源码","lang":"HTML / CSS / JS","url":"https://github.com/TuxLin123233/my-play-list"},{"name":"my-food-list","desc":"零食柜源码","lang":"HTML / CSS / JS","url":"https://github.com/TuxLin123233/my-food-list"}],"knowledge":{"root":"Lin Sifan","branches":[{"name":"语言","en":"LANGUAGES","color":"ink","leaves":[{"name":"JavaScript","note":"2048 · Canvas","status":"project"},{"name":"Python","note":"Pygame Zero · 小工具 · Pico W","status":"project"},{"name":"C","note":"Arduino · 基础 C","status":"project"},{"name":"Java","note":"基础语法 · 现在生疏","status":"rusty"},{"name":"HTML / CSS","note":"2048 · 页面排版","status":"project"}]},{"name":"框架 / 库","en":"FRAMEWORKS","color":"sage","leaves":[{"name":"Vue 3","note":"会框架 · 项目多为 AI 协作","status":"stated"},{"name":"Godot","note":"游戏引擎 · 浅尝","status":"light"},{"name":"Pygame Zero","note":"2D 游戏原型","status":"project"},{"name":"MicroPython","note":"Pico W · WiFi 留言板","status":"project"},{"name":"Rich / requests","note":"小林召唤器 · 音乐下载器","status":"project"},{"name":"Arduino Keypad","note":"键盘 · 蜂鸣器","status":"project"},{"name":"Canvas 2D","note":"2048 渲染与交互","status":"project"}]},{"name":"硬件 / 电子","en":"HARDWARE","color":"blue","leaves":[{"name":"ESP32 / Arduino","note":"C 风格 · LED_Blink · 外设","status":"project"},{"name":"嘉立创 PCB","note":"基础电路板绘制","status":"stated"},{"name":"按键 / 蜂鸣器","note":"Keypad · 音符输出","status":"project"}]},{"name":"工具 / 环境","en":"TOOLS","color":"mustard","leaves":[{"name":"Git / GitHub","note":"版本管理 · Pages","status":"project"},{"name":"Linux","note":"环境 · 脚本 · 桌面配置","status":"stated"},{"name":"Node / pnpm","note":"前端工具链","status":"stated"},{"name":"Python 工具链","note":"venv · requests · PyInstaller","status":"project"}]}],"excluded":["Vite / Pinia / Vue Router（Vue 工程细节）","Cloudflare Pages / KV","CustomTkinter / Tkinter","静态站脚手架"]},"updated":"2026-11-22"};

diff --git a/index.html b/index.html
@@ -14,14 +14,14 @@
   <meta property="og:description" content="网站、像素、游戏与小实验，以及 GitHub 上的贡献记录。">
   <meta property="og:type" content="website">
   <meta property="og:url" content="https://tuxlin123233.github.io/my-works/">
-  <meta property="og:image" content="https://tuxlin123233.github.io/my-works/assets/og-cover.jpg?v=20261122-8">
+  <meta property="og:image" content="https://tuxlin123233.github.io/my-works/assets/og-cover.jpg?v=20261122-9">
   <meta property="og:image:width" content="1200">
   <meta property="og:image:height" content="630">
   <meta name="twitter:card" content="summary_large_image">
-  <meta name="twitter:image" content="https://tuxlin123233.github.io/my-works/assets/og-cover.jpg?v=20261122-8">
+  <meta name="twitter:image" content="https://tuxlin123233.github.io/my-works/assets/og-cover.jpg?v=20261122-9">
   <title>Lin Sifan · 作品索引</title>
   <link rel="icon" href="favicon.svg" type="image/svg+xml">
-  <link rel="stylesheet" href="css/style.css?v=20261122-8">
+  <link rel="stylesheet" href="css/style.css?v=20261122-9">
 </head>
 <body>
   <header class="site-head">
@@ -128,8 +128,9 @@
         <span><i class="legend-dot project"></i>有自己项目证据</span>
         <span><i class="legend-dot stated"></i>自述 / 在学</span>
         <span><i class="legend-dot rusty"></i>以前会 · 现在生疏</span>
+        <span><i class="legend-dot light"></i>浅尝</span>
       </div>
-      <p class="tree-note"><strong>AI 协作不计入：</strong><span id="ai-excluded"></span><br><span class="tree-note__sub">AI 主要用来教学和协作；上面标「项目」的节点来自 2048、Pygame Zero、音乐下载器、家庭留言板、小林召唤器、LED_Blink 等自己写的项目。</span></p>
+      <p class="tree-note"><strong>AI 协作不计入：</strong><span id="ai-excluded"></span><br><span class="tree-note__sub">AI 主要用来教学和协作；上面标「项目」的节点来自 2048、Pygame Zero、音乐下载器、家庭留言板、小林召唤器、LED_Blink 等自己写的项目；C 语言对应 Arduino，不把 C++ 单独算会。</span></p>
     </section>
 
     <section class="about shell" id="about" aria-labelledby="about-title">
@@ -166,7 +167,7 @@
     <svg viewBox="0 0 24 24" aria-hidden="true"><path d="m6 14 6-6 6 6"/></svg>
   </button>
 
-  <script src="js/data.js?v=20261122-8"></script>
-  <script src="js/app.js?v=20261122-8"></script>
+  <script src="js/data.js?v=20261122-9"></script>
+  <script src="js/app.js?v=20261122-9"></script>
 </body>
 </html>

diff --git a/css/style.css b/css/style.css
@@ -282,6 +282,7 @@ img { max-width: 100%; display: block; }
 }
 .tree-leaf--stated .tree-leaf__dot { background: transparent; border: 1px solid var(--ink); }
 .tree-leaf--rusty .tree-leaf__dot { background: var(--mustard); }
+.tree-leaf--light .tree-leaf__dot { background: var(--blue); }
 .tree-leaf__text { display: flex; flex-direction: column; gap: 2px; min-width: 0; }
 .tree-leaf__text strong { font-family: var(--font-display); font-size: 12px; font-weight: 600; line-height: 1.3; }
 .tree-leaf__text span { font-size: 10px; line-height: 1.4; color: var(--muted); }
@@ -292,6 +293,7 @@ img { max-width: 100%; display: block; }
 .legend-dot.project { background: var(--ink); }
 .legend-dot.stated { border: 1px solid var(--ink); }
 .legend-dot.rusty { background: var(--mustard); }
+.legend-dot.light { background: var(--blue); }
 .tree-note { margin: 10px 0 0; padding-top: 10px; border-top: 1px dashed var(--line); font-size: 10.5px; line-height: 1.7; color: var(--muted); }
 .tree-note strong { color: var(--ink-soft); font-weight: 500; }
 .tree-note__sub { display: inline-block; margin-top: 4px; color: var(--muted); }
@@ -386,6 +388,14 @@ img { max-width: 100%; display: block; }
   .section__note { white-space: normal; }
   .about { grid-template-columns: 1fr; }
   .contrib__grid { padding-bottom: 8px; }
+  .tree { padding: 16px 14px 20px; }
+  .tree__root::after { display: none; }
+  .tree__branches { grid-template-columns: 1fr; margin-top: 16px; gap: 18px; }
+  .tree-branch__head { padding: 9px 0 10px; }
+  .tree-branch__leaves { gap: 7px; }
+  .tree-leaf { padding: 9px 9px 9px 10px; }
+  .tree-leaf__text strong { font-size: 13px; }
+  .tree-leaf__text span { font-size: 10.5px; }
 }
 @media (max-width: 600px) {
   .shell { width: calc(100% - 28px); }

diff --git a/tools/build_site_data.py b/tools/build_site_data.py
@@ -51,12 +51,13 @@ KNOWLEDGE = {
         {"name": "语言", "en": "LANGUAGES", "color": "ink", "leaves": [
             {"name": "JavaScript", "note": "2048 · Canvas", "status": "project"},
             {"name": "Python", "note": "Pygame Zero · 小工具 · Pico W", "status": "project"},
-            {"name": "C++", "note": "Arduino · LED_Blink", "status": "project"},
+            {"name": "C", "note": "Arduino · 基础 C", "status": "project"},
             {"name": "Java", "note": "基础语法 · 现在生疏", "status": "rusty"},
             {"name": "HTML / CSS", "note": "2048 · 页面排版", "status": "project"},
         ]},
         {"name": "框架 / 库", "en": "FRAMEWORKS", "color": "sage", "leaves": [
             {"name": "Vue 3", "note": "会框架 · 项目多为 AI 协作", "status": "stated"},
+            {"name": "Godot", "note": "游戏引擎 · 浅尝", "status": "light"},
             {"name": "Pygame Zero", "note": "2D 游戏原型", "status": "project"},
             {"name": "MicroPython", "note": "Pico W · WiFi 留言板", "status": "project"},
             {"name": "Rich / requests", "note": "小林召唤器 · 音乐下载器", "status": "project"},
@@ -64,7 +65,7 @@ KNOWLEDGE = {
             {"name": "Canvas 2D", "note": "2048 渲染与交互", "status": "project"},
         ]},
         {"name": "硬件 / 电子", "en": "HARDWARE", "color": "blue", "leaves": [
-            {"name": "ESP32 / Arduino", "note": "LED_Blink · 外设", "status": "project"},
+            {"name": "ESP32 / Arduino", "note": "C 风格 · LED_Blink · 外设", "status": "project"},
             {"name": "嘉立创 PCB", "note": "基础电路板绘制", "status": "stated"},
             {"name": "按键 / 蜂鸣器", "note": "Keypad · 音符输出", "status": "project"},
         ]},

diff --git a/README.md b/README.md
@@ -40,12 +40,12 @@
 
 页面里有一张知识树：
 
-- 语言：JavaScript / Python / C++ / Java / HTML-CSS
-- 框架 / 库：Vue 3、Pygame Zero、MicroPython、Rich / requests、Arduino Keypad、Canvas 2D
+- 语言：JavaScript / Python / C / Java / HTML-CSS
+- 框架 / 库：Vue 3、Godot（浅尝）、Pygame Zero、MicroPython、Rich / requests、Arduino Keypad、Canvas 2D
 - 硬件：ESP32 / Arduino、嘉立创 PCB、按键 / 蜂鸣器
 - 工具：Git / GitHub、Linux、Node / pnpm、Python 工具链
 
-树节点区分「有自己项目证据」「自述 / 在学」「以前会 · 现在生疏」。AI 主要用来教学和协作；本地项目 2048、Pygame Zero、音乐下载器、家庭留言板、小林召唤器、LED_Blink 都是自己写的，AI 协作过的工程细节单列在下面，不计入能力证据。
+树节点区分「有自己项目证据」「自述 / 在学」「以前会 · 现在生疏」「浅尝」。AI 主要用来教学和协作；本地项目 2048、Pygame Zero、音乐下载器、家庭留言板、小林召唤器、LED_Blink 都是自己写的；Arduino 归到 C 的基础，不单独算 C++。AI 协作过的工程细节单列在下面，不计入能力证据。
 
 <p align="center">
   <img src="docs/preview-knowledge.jpg" alt="知识树" width="100%">
